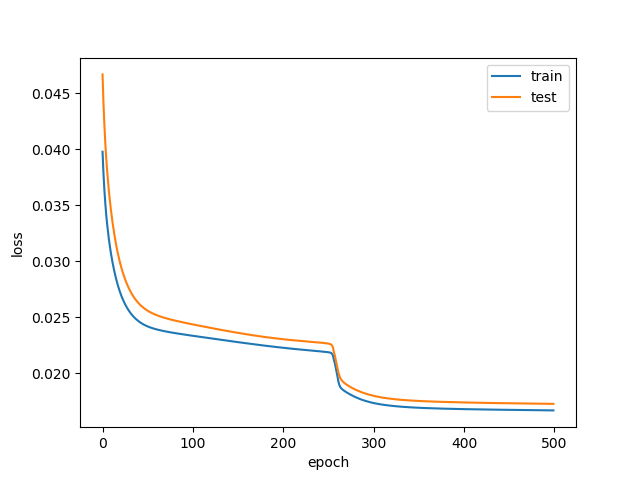
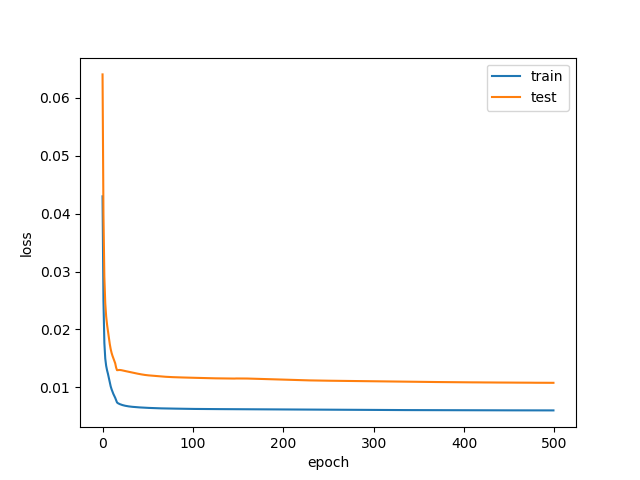
switch to adam optimizer

diff --git a/channel_geom_nn.py b/channel_geom_nn.py
@@ -7,11 +7,11 @@ from sklearn.preprocessing import MinMaxScaler
 import tensorflow as tf
 
 # read the data
-# df = pd.read_csv('data/mcelroy_dataclean.csv') # read data set using pandas
+df = pd.read_csv('data/mcelroy_dataclean.csv') # read data set using pandas
 # df = pd.read_csv('data/wilkerson_dataclean.csv') # read data set using pandas
 # df = pd.read_csv('data/combined.csv') # read data set using pandas
 # df = pd.read_csv('data/combined_modified.csv') # read data set using pandas
-df = pd.read_csv('data/combined_modified_cut.csv') # read data set using pandas
+# df = pd.read_csv('data/combined_modified_cut.csv') # read data set using pandas
 df = df.dropna(inplace=False)  # Remove all nan entries.
 print('Data summary:\n')
 print(df.describe(), '\n\n') # Overview of dataset
@@ -58,10 +58,12 @@ def neural_net_model(X_data, input_dim):
     b_1 = tf.Variable(tf.zeros([n_nodes]))
     layer_1 = tf.add(tf.matmul(X_data, W_1), b_1)
     layer_1 = tf.nn.relu(layer_1)
+    # layer_1 = tf.nn.softmax(layer_1)
+
 
     # layer 2 multiplying and adding bias then activation function    
     # W_2 = tf.Variable(tf.random_uniform([n_nodes, n_nodes]))
-    # b_2 = tf.Variable(tf.zeros([n_nodes]))
+    # b_2 = tf.Variable(tf.zeros([n_nodes2]))
     # layer_2 = tf.add(tf.matmul(layer_1, W_2), b_2)
     # layer_2 = tf.nn.relu(layer_2)
 
@@ -69,6 +71,7 @@ def neural_net_model(X_data, input_dim):
     W_O = tf.Variable(tf.random_uniform([n_nodes, 2])) # 2 because there are two outputs
     b_O = tf.Variable(tf.zeros([2]))
     output = tf.add(tf.matmul(layer_1, W_O), b_O)
+    # output = tf.exp(tf.matmul(layer_1, W_O), b_O)
 
     return output, W_O
 
@@ -80,10 +83,13 @@ ys = tf.placeholder("float", [None, y_train.shape[1]], name='y')
 output, W_O = neural_net_model(xs, X_train.shape[1])
 
 # our mean squared error cost function
-loss = tf.reduce_sum(tf.square(output - ys))
+# loss = tf.reduce_sum(tf.square(output - ys))
+loss = tf.reduce_mean(tf.square(output - ys))
 
 # Gradinent Descent optimiztion just discussed above for updating weights and biases
-train = tf.train.GradientDescentOptimizer(0.001).minimize(loss)
+learning_rate = 0.001
+# train = tf.train.GradientDescentOptimizer(learning_rate).minimize(loss)
+train = tf.train.AdamOptimizer(learning_rate).minimize(loss)
 
 # some other initializations
 correct_pred = tf.argmax(output, 1)
